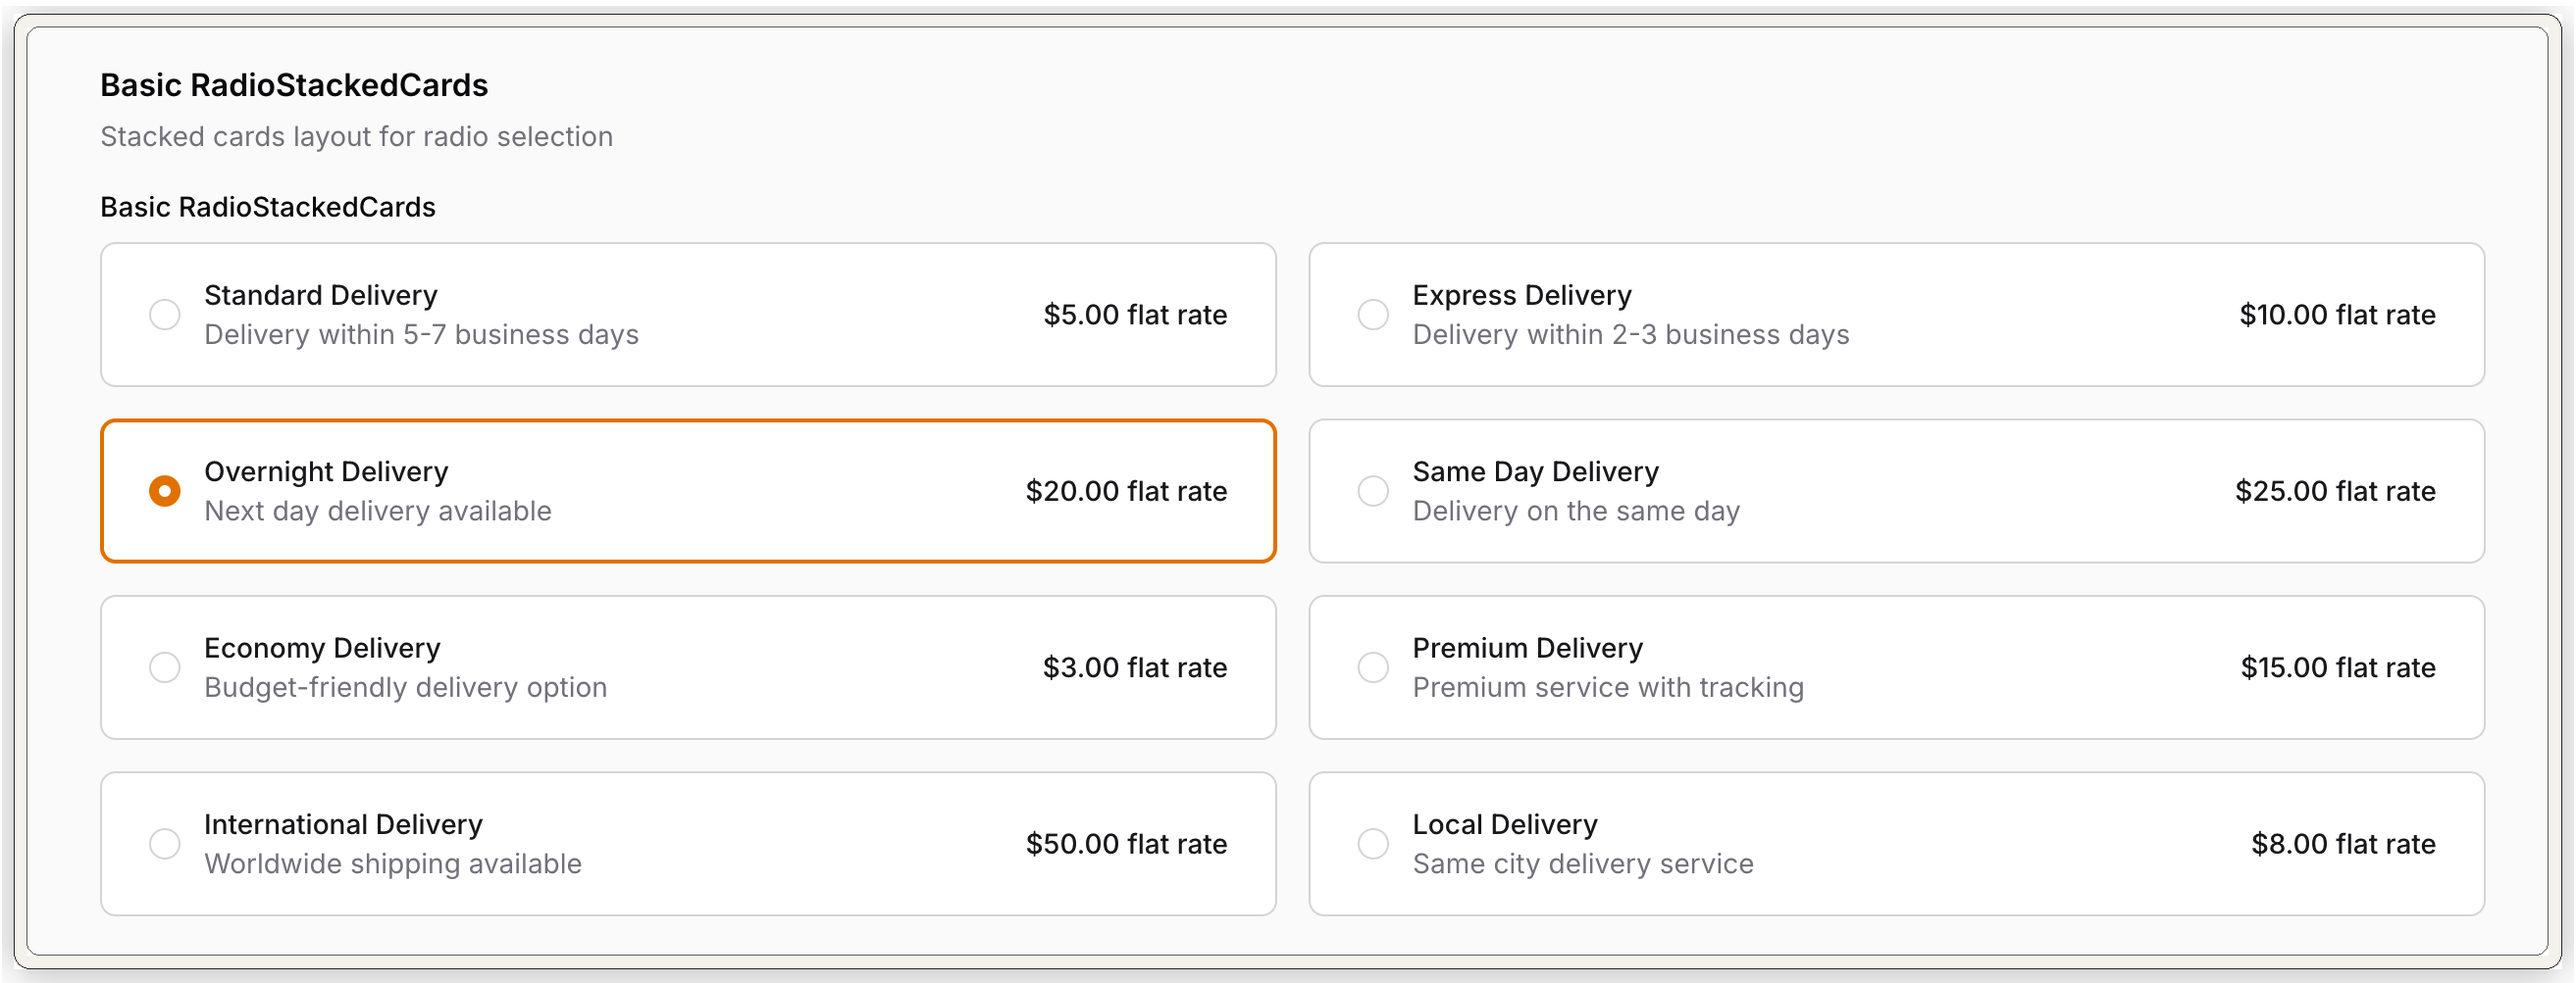
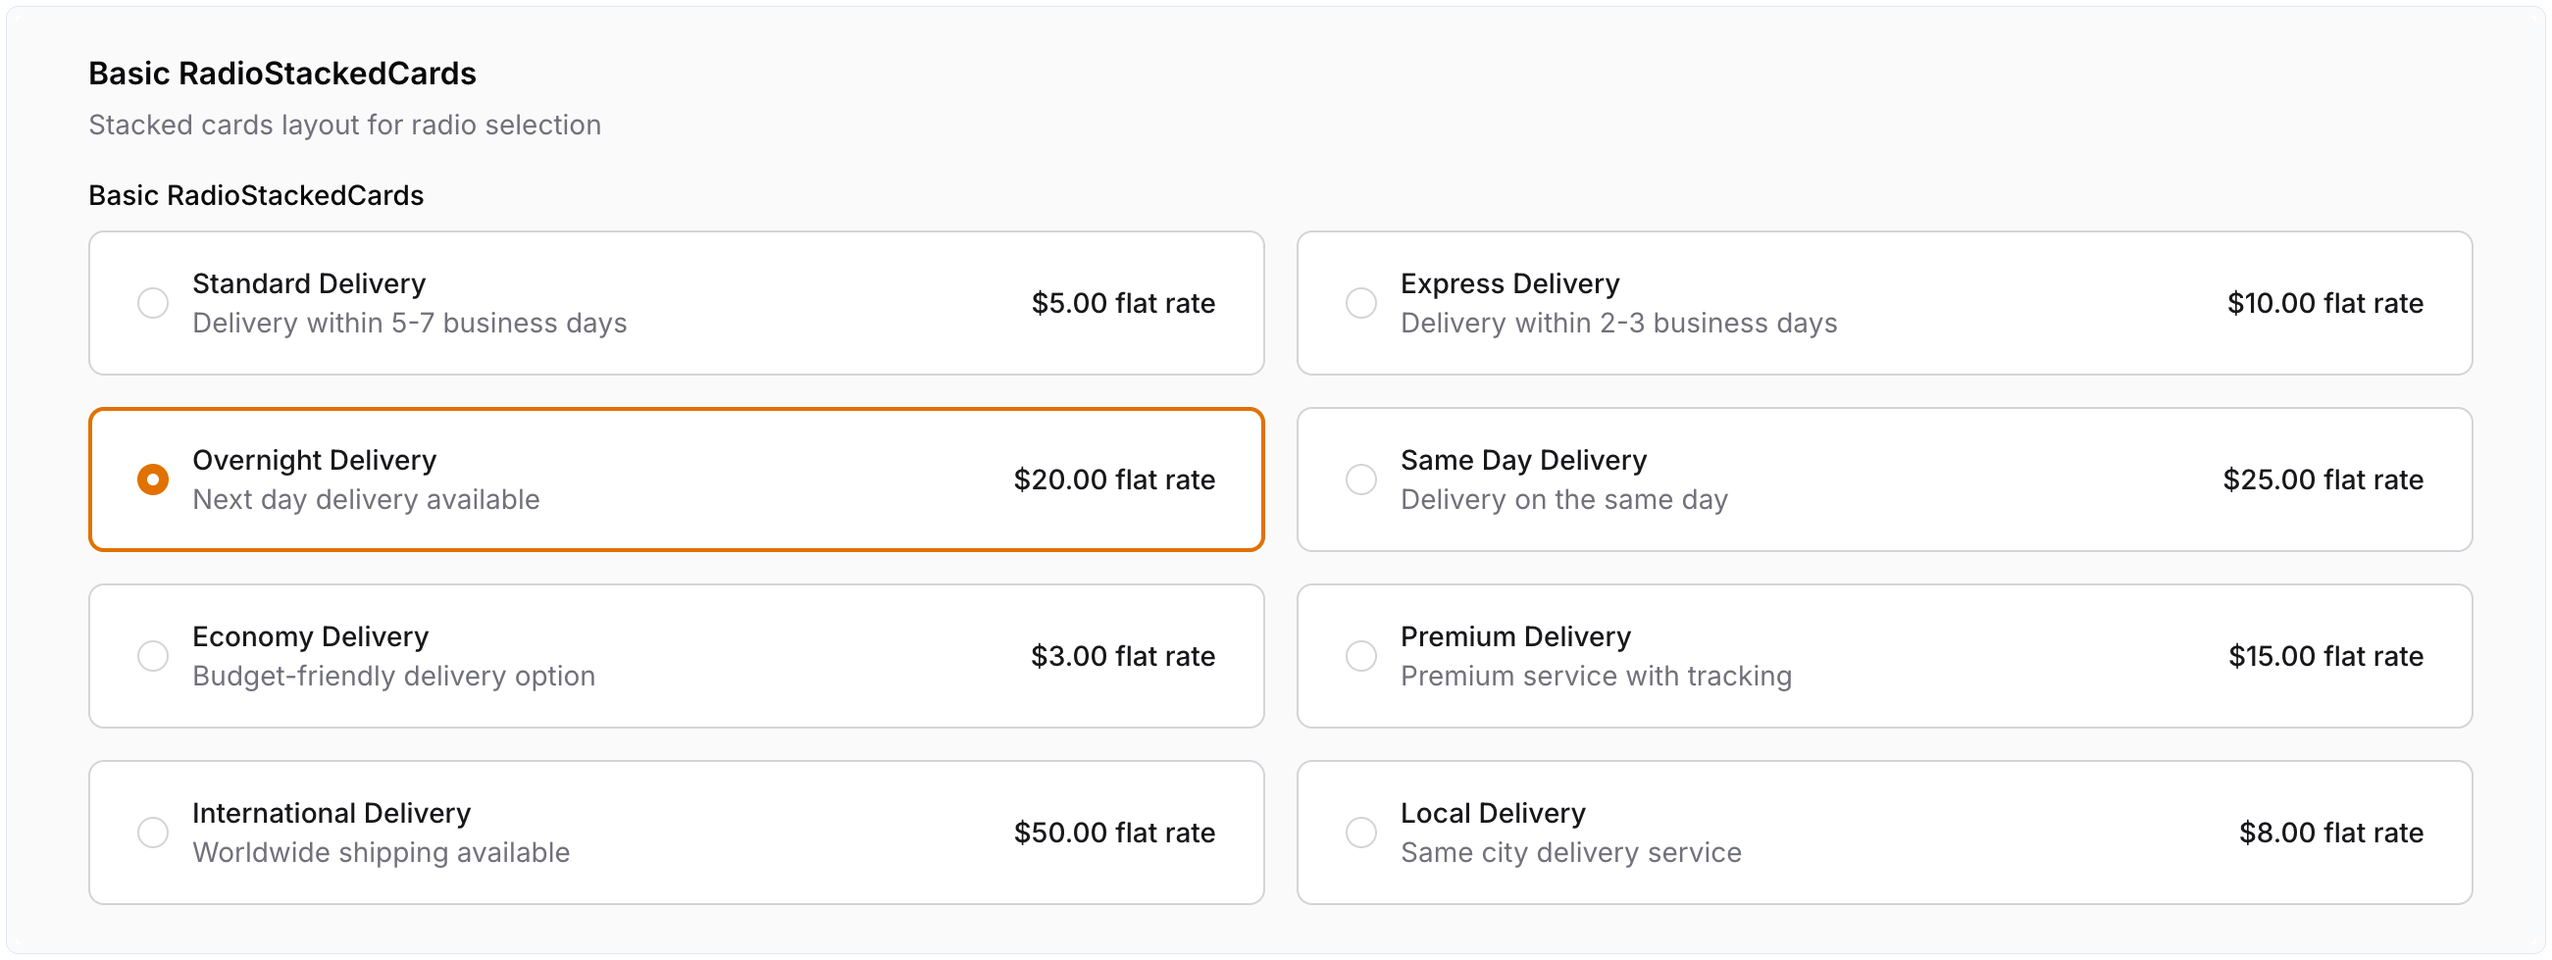
Art: subtler frame (no shadow, slate hairline, tighter padding)

diff --git a/scripts/frame-art-images.py b/scripts/frame-art-images.py
@@ -1,26 +1,25 @@
 #!/usr/bin/env python3
-"""Add rounded card frame (double border + soft shadow) to README art PNGs."""
+"""Add a subtle rounded frame to README art PNGs (light mat + hairline border, no harsh shadow)."""
 
 from __future__ import annotations
 
 from pathlib import Path
 
-from PIL import Image, ImageDraw, ImageFilter
+from PIL import Image, ImageDraw
 
-# Outer card (light frame + thin dark edge), inner screenshot corners
-OUTER_RADIUS = 16
-INNER_RADIUS = 12
+# Corners: keep modest so it does not read like a heavy “badge”
+OUTER_RADIUS = 12
+INNER_RADIUS = 10
 
-# Warm off-white band, double-line dark accents (reference: terminal card UIs)
-LIGHT = (245, 242, 235, 255)
-OUTER_STROKE = (38, 38, 38, 255)
-INNER_STROKE = (90, 90, 90, 255)
+# Barely off-white mat + one soft gray hairline (avoids gray “glow” from drop shadows on GitHub white)
+LIGHT = (249, 250, 251, 255)  # slate-50
+STROKE = (226, 232, 240, 255)  # slate-200
 
 # README / GitHub renders PNGs on white; keep the whole file opaque (no transparent “halo”)
 CANVAS_BG = (255, 255, 255, 255)
 
 # Padding from outer card edge to screenshot
-PAD = 14
+PAD = 10
 
 
 def rounded_mask(size: tuple[int, int], radius: int) -> Image.Image:
@@ -53,42 +52,20 @@ def frame_image(im: Image.Image) -> Image.Image:
     card_w = w + 2 * PAD
     card_h = h + 2 * PAD
 
-    shadow_pad = 14
-    canvas_w = card_w + shadow_pad * 2
-    canvas_h = card_h + shadow_pad * 2
-    # Opaque base so nothing outside the card is transparent (avoids gray halos on GitHub / dark UIs)
+    # Tight margin: no extra canvas for a blurred shadow (that was reading as “dirty” gray on white)
+    margin = 6
+    canvas_w = card_w + margin * 2
+    canvas_h = card_h + margin * 2
     canvas = Image.new("RGBA", (canvas_w, canvas_h), CANVAS_BG)
 
-    ox, oy = shadow_pad, shadow_pad
+    ox, oy = margin, margin
 
-    # Soft drop shadow (blended onto white, then flattened)
-    shadow = Image.new("RGBA", (card_w + 24, card_h + 24), (0, 0, 0, 0))
-    sd = ImageDraw.Draw(shadow)
-    sd.rounded_rectangle(
-        (12, 12, card_w + 11, card_h + 11),
-        radius=OUTER_RADIUS + 2,
-        fill=(0, 0, 0, 70),
-    )
-    shadow = shadow.filter(ImageFilter.GaussianBlur(16))
-    canvas.alpha_composite(shadow, (ox - 12, oy - 8))
-
-    # Light card + outer stroke (double effect outer line)
     card = Image.new("RGBA", (card_w, card_h), CANVAS_BG)
     cd = ImageDraw.Draw(card)
     cd.rounded_rectangle((0, 0, card_w - 1, card_h - 1), radius=OUTER_RADIUS, fill=LIGHT)
-    cd.rounded_rectangle((0, 0, card_w - 1, card_h - 1), radius=OUTER_RADIUS, outline=OUTER_STROKE, width=1)
+    cd.rounded_rectangle((0, 0, card_w - 1, card_h - 1), radius=OUTER_RADIUS, outline=STROKE, width=1)
 
     card.paste(im, (PAD, PAD), im)
-
-    # Inner stroke hugging the screenshot (second line of the double frame)
-    ix0, iy0 = PAD - 1, PAD - 1
-    ix1, iy1 = PAD + w, PAD + h
-    cd.rounded_rectangle(
-        (ix0, iy0, ix1 - 1, iy1 - 1),
-        radius=INNER_RADIUS + 1,
-        outline=INNER_STROKE,
-        width=1,
-    )
 
     canvas.alpha_composite(card, (ox, oy))
     # No alpha channel: every pixel is opaque README-friendly white outside the frame
